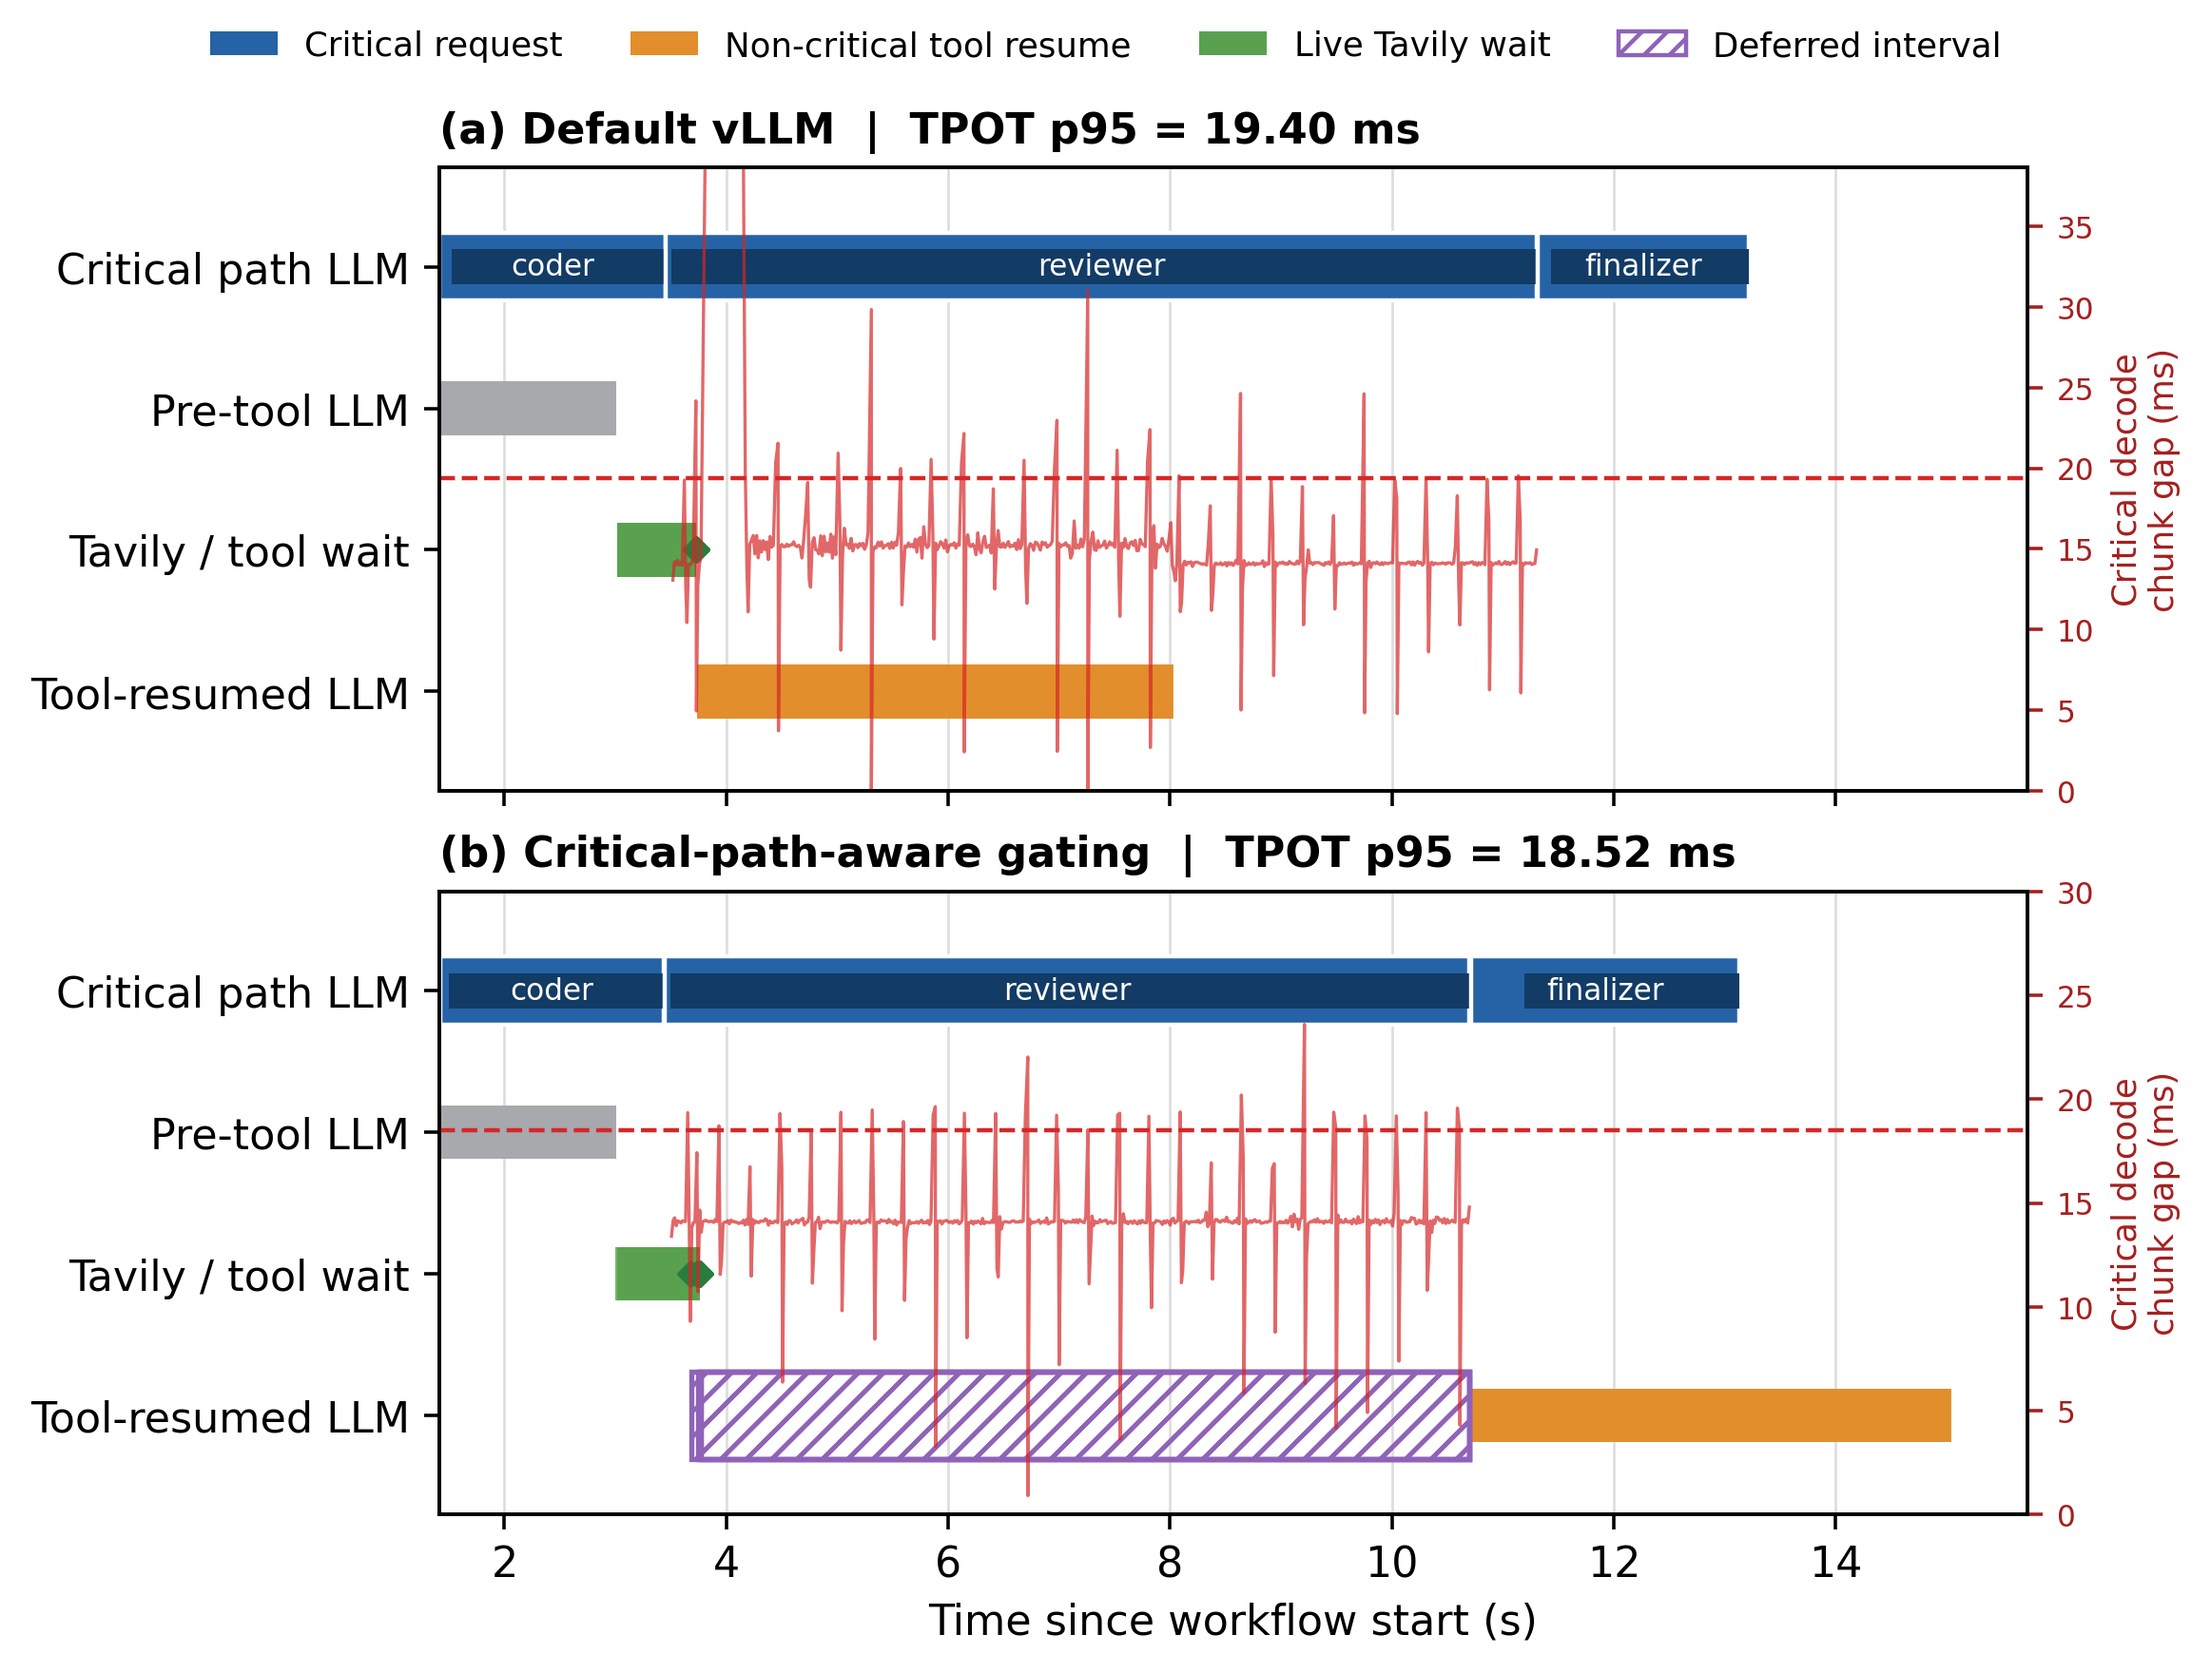
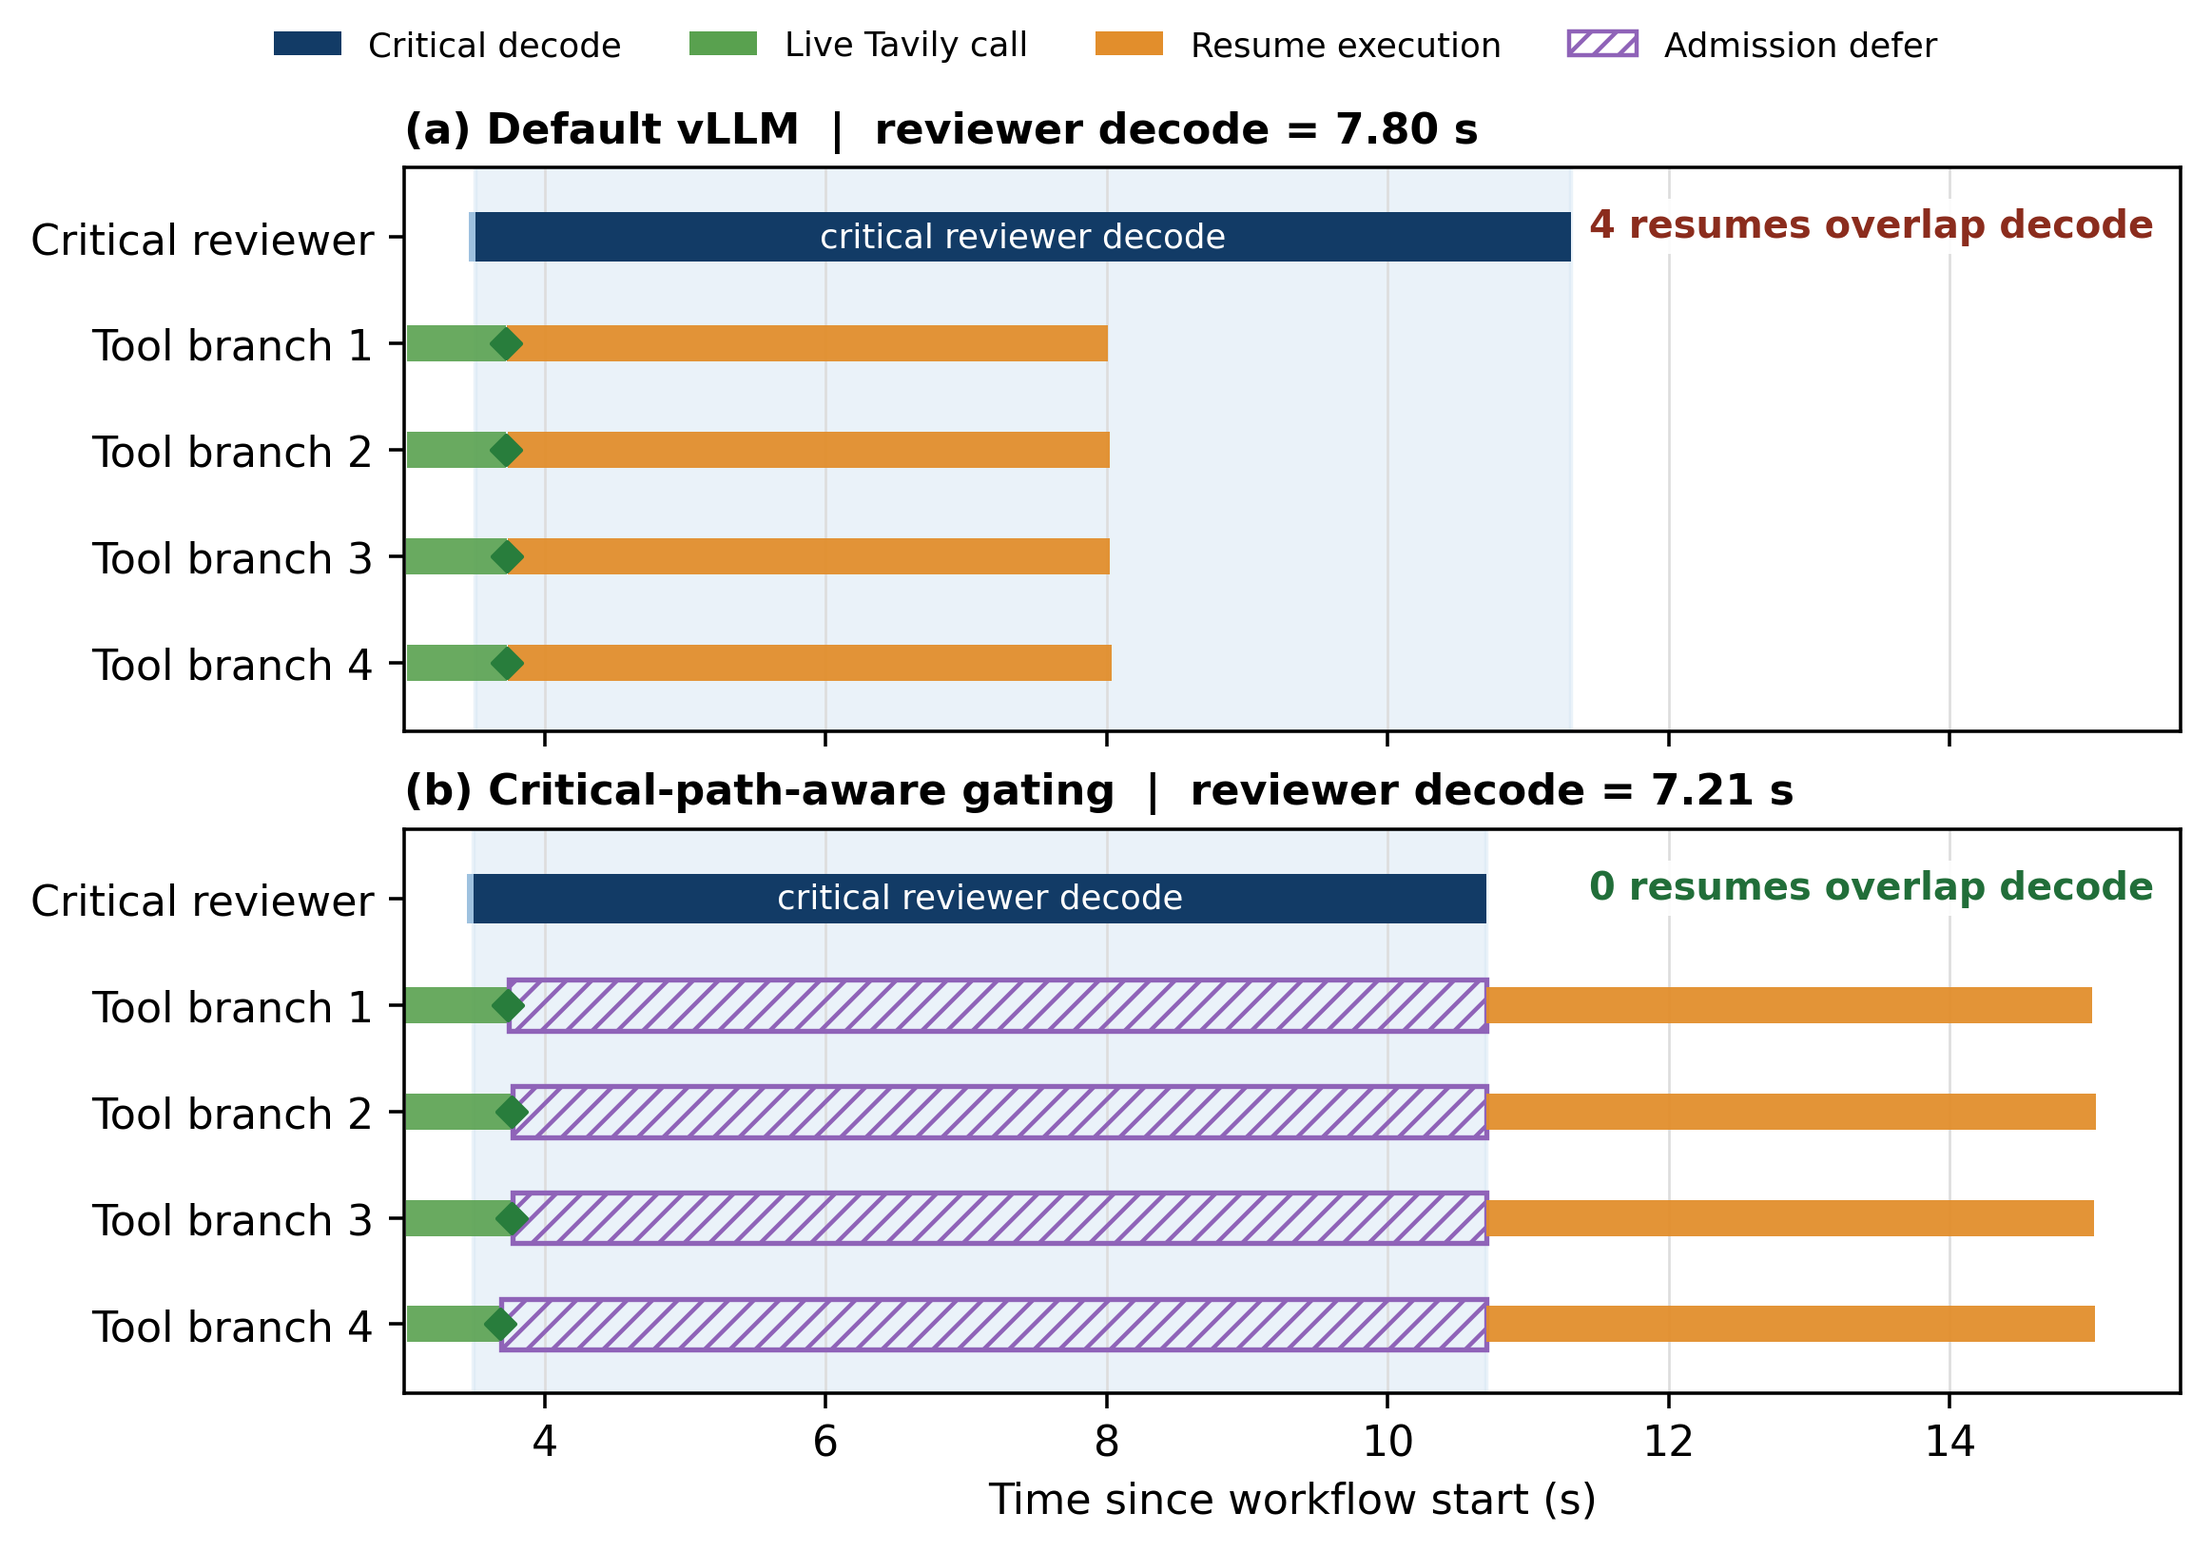
Clarify real-execution scheduling figures

diff --git a/mas_workflow/app/analyze_week6_real_case_study.py b/mas_workflow/app/analyze_week6_real_case_study.py
@@ -115,59 +115,55 @@ def llm_interval(row: dict[str, Any], events: list[dict[str, Any]]) -> tuple[flo
 def timeline_panel(ax: Any, row: dict[str, Any], panel: str) -> None:
     events = row["events"]
     llms = [item for item in events if item.get("event_type") == "llm_request_end"]
-    critical = [item for item in llms if item.get("node_id") in {"critical_coder", "critical_reviewer", "finalizer"}]
-    pre_tool = [item for item in llms if item.get("function_call_lifecycle_stage") == "llm_1_pre_tool"]
-    resumes = [item for item in llms if item.get("background_resume_request")]
-    tools = [item for item in events if item.get("event_type") == "tool_search"]
-    defers = [item for item in events if item.get("event_type") == "admission_defer_end"]
-    lanes = {"Critical path LLM": 3, "Pre-tool LLM": 2, "Tavily / tool wait": 1, "Tool-resumed LLM": 0}
-    for item in critical:
-        start, end = llm_interval(item, events)
-        ax.barh(lanes["Critical path LLM"], end - start, left=start, height=0.48, color=COLORS["critical"], edgecolor="white")
-        if item.get("first_token_ts"):
-            decode = rel(float(item["first_token_ts"]), events)
-            ax.barh(lanes["Critical path LLM"], end - decode, left=decode, height=0.25, color=COLORS["critical_decode"])
-        ax.text((start + end) / 2, lanes["Critical path LLM"], str(item["node_id"]).replace("critical_", ""), ha="center", va="center", fontsize=7, color="white")
-    for item in pre_tool:
-        start, end = llm_interval(item, events)
-        ax.barh(lanes["Pre-tool LLM"], end - start, left=start, height=0.38, color=COLORS["other"], alpha=0.85)
-    for item in tools:
-        start, end = rel(float(item["tool_start_ts"]), events), rel(float(item["tool_end_ts"]), events)
-        ax.barh(lanes["Tavily / tool wait"], end - start, left=start, height=0.38, color=COLORS["tool"], alpha=0.8)
-        ax.scatter([end], [lanes["Tavily / tool wait"]], marker="D", s=15, color="#287d3c", zorder=5)
-    for item in resumes:
-        start, end = llm_interval(item, events)
-        ax.barh(lanes["Tool-resumed LLM"], end - start, left=start, height=0.38, color=COLORS["background"], alpha=0.9)
-    for item in defers:
-        start = rel(float(item["defer_start_ts"]), events)
-        end = rel(float(item["defer_end_ts"]), events)
-        ax.barh(lanes["Tool-resumed LLM"], end - start, left=start, height=0.62, facecolor="none", edgecolor=COLORS["defer"], hatch="////", linewidth=1.2)
-    reviewer = next(item for item in critical if item["node_id"] == "critical_reviewer")
-    stamps = [rel(float(value), events) for value in reviewer.get("stream_chunk_timestamps") or []]
-    gaps = [1000 * max(0.0, b - a) for a, b in zip(stamps, stamps[1:])]
-    twin = ax.twinx()
-    twin.plot(stamps[1:], gaps, color="#d62728", linewidth=0.75, alpha=0.7)
-    twin.axhline(1000 * float(reviewer["tpot_p95_sec"]), color="#d62728", linestyle="--", linewidth=1)
-    twin.set_ylabel("Critical decode\nchunk gap (ms)", color="#a51f1f", fontsize=8)
-    twin.tick_params(axis="y", labelsize=7, colors="#a51f1f")
-    twin.set_ylim(0, max(30, percentile(gaps, 0.99) * 1.25 if gaps else 30))
-    ax.set_yticks(list(lanes.values()), list(lanes.keys()))
-    ax.set_ylim(-0.7, 3.7)
-    ax.set_title(f"({panel}) {POLICY_LABELS[row['policy']]}  |  TPOT p95 = {row['critical_tpot_p95_ms']:.2f} ms", loc="left", fontsize=10, fontweight="bold")
+    reviewer = next(item for item in llms if item.get("node_id") == "critical_reviewer")
+    resumes = {str(item["node_id"]).rsplit("_", 1)[-1]: item for item in llms if item.get("background_resume_request")}
+    tools = {str(item["node_id"]).split("_")[2]: item for item in events if item.get("event_type") == "tool_search"}
+    defers = {
+        str(item["node_id"]).rsplit("_", 1)[-1]: item
+        for item in events if item.get("event_type") == "admission_defer_end"
+    }
+    reviewer_submit = rel(float(reviewer["request_submit_ts"]), events)
+    decode_start = rel(float(reviewer["first_token_ts"]), events)
+    decode_end = rel(float(reviewer["completion_ts"]), events)
+    ax.axvspan(decode_start, decode_end, color="#d9e8f5", alpha=0.55, zorder=0)
+    ax.barh(4, decode_start - reviewer_submit, left=reviewer_submit, height=0.46, color="#9ec1df")
+    ax.barh(4, decode_end - decode_start, left=decode_start, height=0.46, color=COLORS["critical_decode"])
+    ax.text((decode_start + decode_end) / 2, 4, "critical reviewer decode", ha="center", va="center", fontsize=8, color="white")
+    for branch in range(1, 5):
+        key = str(branch)
+        y = 4 - branch
+        tool = tools[key]
+        tool_start = rel(float(tool["tool_start_ts"]), events)
+        tool_end = rel(float(tool["tool_end_ts"]), events)
+        resume_start, resume_end = llm_interval(resumes[key], events)
+        ax.barh(y, tool_end - tool_start, left=tool_start, height=0.34, color=COLORS["tool"], alpha=0.9)
+        ax.scatter([tool_end], [y], marker="D", s=24, color="#287d3c", zorder=5)
+        if key in defers:
+            defer = defers[key]
+            defer_start = rel(float(defer["defer_start_ts"]), events)
+            defer_end = rel(float(defer["defer_end_ts"]), events)
+            ax.barh(y, defer_end - defer_start, left=defer_start, height=0.48, facecolor="none", edgecolor=COLORS["defer"], hatch="////", linewidth=1.2)
+        ax.barh(y, resume_end - resume_start, left=resume_start, height=0.34, color=COLORS["background"], alpha=0.95)
+    overlap = int(row["tool_resume_overlap_count"])
+    outcome = "4 resumes overlap decode" if overlap else "0 resumes overlap decode"
+    ax.text(0.985, 0.93, outcome, transform=ax.transAxes, ha="right", va="top", fontsize=9, fontweight="bold", color="#8b2c1d" if overlap else "#216e39", bbox={"facecolor": "white", "edgecolor": "none", "alpha": 0.9, "pad": 2})
+    ax.set_yticks([4, 3, 2, 1, 0], ["Critical reviewer", "Tool branch 1", "Tool branch 2", "Tool branch 3", "Tool branch 4"])
+    ax.set_ylim(-0.65, 4.65)
+    ax.set_title(f"({panel}) {POLICY_LABELS[row['policy']]}  |  reviewer decode = {row['critical_decode_duration_sec']:.2f} s", loc="left", fontsize=10, fontweight="bold")
     ax.grid(axis="x", color="#dddddd", linewidth=0.6)
     ax.set_axisbelow(True)
 
 
 def figure_timeline(representatives: dict[str, dict[str, Any]]) -> None:
-    fig, axes = plt.subplots(2, 1, figsize=(7.15, 5.4), sharex=True, constrained_layout=True)
+    fig, axes = plt.subplots(2, 1, figsize=(7.15, 5.0), sharex=True, constrained_layout=True)
     timeline_panel(axes[0], representatives["default_vllm"], "a")
     timeline_panel(axes[1], representatives["critical_path_aware"], "b")
     axes[1].set_xlabel("Time since workflow start (s)")
     handles = [
-        Patch(facecolor=COLORS["critical"], label="Critical request"),
-        Patch(facecolor=COLORS["background"], label="Non-critical tool resume"),
-        Patch(facecolor=COLORS["tool"], label="Live Tavily wait"),
-        Patch(facecolor="none", edgecolor=COLORS["defer"], hatch="////", label="Deferred interval"),
+        Patch(facecolor=COLORS["critical_decode"], label="Critical decode"),
+        Patch(facecolor=COLORS["tool"], label="Live Tavily call"),
+        Patch(facecolor=COLORS["background"], label="Resume execution"),
+        Patch(facecolor="none", edgecolor=COLORS["defer"], hatch="////", label="Admission defer"),
     ]
     fig.legend(handles=handles, loc="outside upper center", ncol=4, frameon=False, fontsize=8)
     fig.savefig(OUT / "figure1_real_execution_interference_timeline.png", dpi=320, bbox_inches="tight")
@@ -179,8 +175,8 @@ def figure_benefit(grouped: dict[str, list[dict[str, Any]]]) -> None:
     policies = ["default_vllm", "critical_path_aware"]
     colors = ["#8b8f97", COLORS["critical"]]
     metrics = [
-        ("workflow_result_ready_sec", "(a) Result-ready workflow makespan", "Seconds"),
-        ("critical_tpot_p95_ms", "(b) Critical decode TPOT p95", "Milliseconds"),
+        ("tool_resume_overlap_count", "(a) Interference removed", "Tool resumes overlapping\ncritical decode"),
+        ("critical_decode_duration_sec", "(b) Protected-phase speedup", "Critical reviewer\ndecode time (s)"),
     ]
     for ax, (key, title, ylabel) in zip(axes, metrics):
         medians = [statistics.median(float(row[key]) for row in grouped[policy]) for policy in policies]
@@ -194,14 +190,17 @@ def figure_benefit(grouped: dict[str, list[dict[str, Any]]]) -> None:
             ax.scatter([i + offset for offset in offsets], values, s=16, color="#202020", alpha=0.72, zorder=4)
             span = max(values) - min(values)
             label_y = max(values) + max(0.015 * max(values), 0.35 * span)
-            ax.text(i, label_y, f"{medians[i]:.2f}", ha="center", va="bottom", fontsize=8)
+            value_label = f"{medians[i]:.0f}" if key == "tool_resume_overlap_count" else f"{medians[i]:.2f} s"
+            ax.text(i, label_y, value_label, ha="center", va="bottom", fontsize=9, fontweight="bold")
         ax.set_xticks(range(2), ["Default\nvLLM", "Critical-path-\naware gating"])
         ax.set_ylabel(ylabel)
         ax.set_title(title, loc="left", fontsize=9.5, fontweight="bold")
         ax.grid(axis="y", color="#dddddd", linewidth=0.6)
         ax.set_axisbelow(True)
         top = max(max(float(row[key]) for row in grouped[policy]) for policy in policies)
-        ax.set_ylim(0, top * 1.08)
+        ax.set_ylim(0, max(1.0, top * 1.13))
+        effect = -100.0 if key == "tool_resume_overlap_count" else 100 * (medians[1] / medians[0] - 1)
+        ax.text(0.5, 0.90, f"{effect:.1f}%", transform=ax.transAxes, ha="center", va="top", fontsize=10, color="#216e39", fontweight="bold")
     fig.savefig(OUT / "figure2_end_to_end_benefit.png", dpi=320, bbox_inches="tight")
     plt.close(fig)
 

diff --git a/progress/week6/week6_real_execution_case_study_report.md b/progress/week6/week6_real_execution_case_study_report.md
@@ -52,11 +52,11 @@ No request starved: all 20 deferred requests across the five gated runs were adm
 
 ![Real execution interference timeline](figure1_real_execution_interference_timeline.png)
 
-Figure 1 uses the median-TPOT-p95 run from each setting. The green spans and diamonds are measured Tavily call/return times; orange spans are the four resumed LLM executions; purple hatching is the online defer interval. The red signal is the critical reviewer's observed SSE chunk gap, with its per-run p95 shown by the dashed line. In the baseline, tool returns release four resume requests into the reviewer decode. Under gating, the same requests remain client-side until reviewer decode completes.
+Figure 1 uses the median-TPOT-p95 run from each setting and shows only the causal scheduling window. Each tool branch is drawn separately: green is its measured Tavily call, the diamond is tool return / resume-ready, orange is resumed LLM execution, and purple hatching is the online admission defer. The blue band is the critical reviewer decode. In the baseline, all four tool returns immediately release resume requests into the reviewer decode. Under gating, all four remain client-side until reviewer decode completes, reducing observed overlap from 4 to 0.
 
-![End-to-end benefit](figure2_end_to_end_benefit.png)
+![Interference removal and protected-phase speedup](figure2_end_to_end_benefit.png)
 
-Figure 2 reports all five runs. Bars are medians, black dots are individual runs, and error bars show min–max variation. The makespan panel uses result-ready time; background-drain completion is reported in the table rather than hidden.
+Figure 2 reports the mechanism and its direct performance consequence across all five runs. Bars are medians, black dots are individual runs, and error bars show min–max variation. Gating eliminates critical-decode tool-resume overlap (`4 -> 0`) and shortens the protected reviewer decode from `7.80 s` to `7.21 s` (`-7.6%`, or `1.082x` speedup). This is the primary case-study effect. Whole-workflow result-ready time improves by only 0.7% because the protected reviewer is one phase of the workflow, and the subsequently released background resumes can still overlap the finalizer. Background-drain completion regresses by 12.0%; both end-to-end values remain explicitly reported in the table above.
 
 ## Full-workflow validation
 
